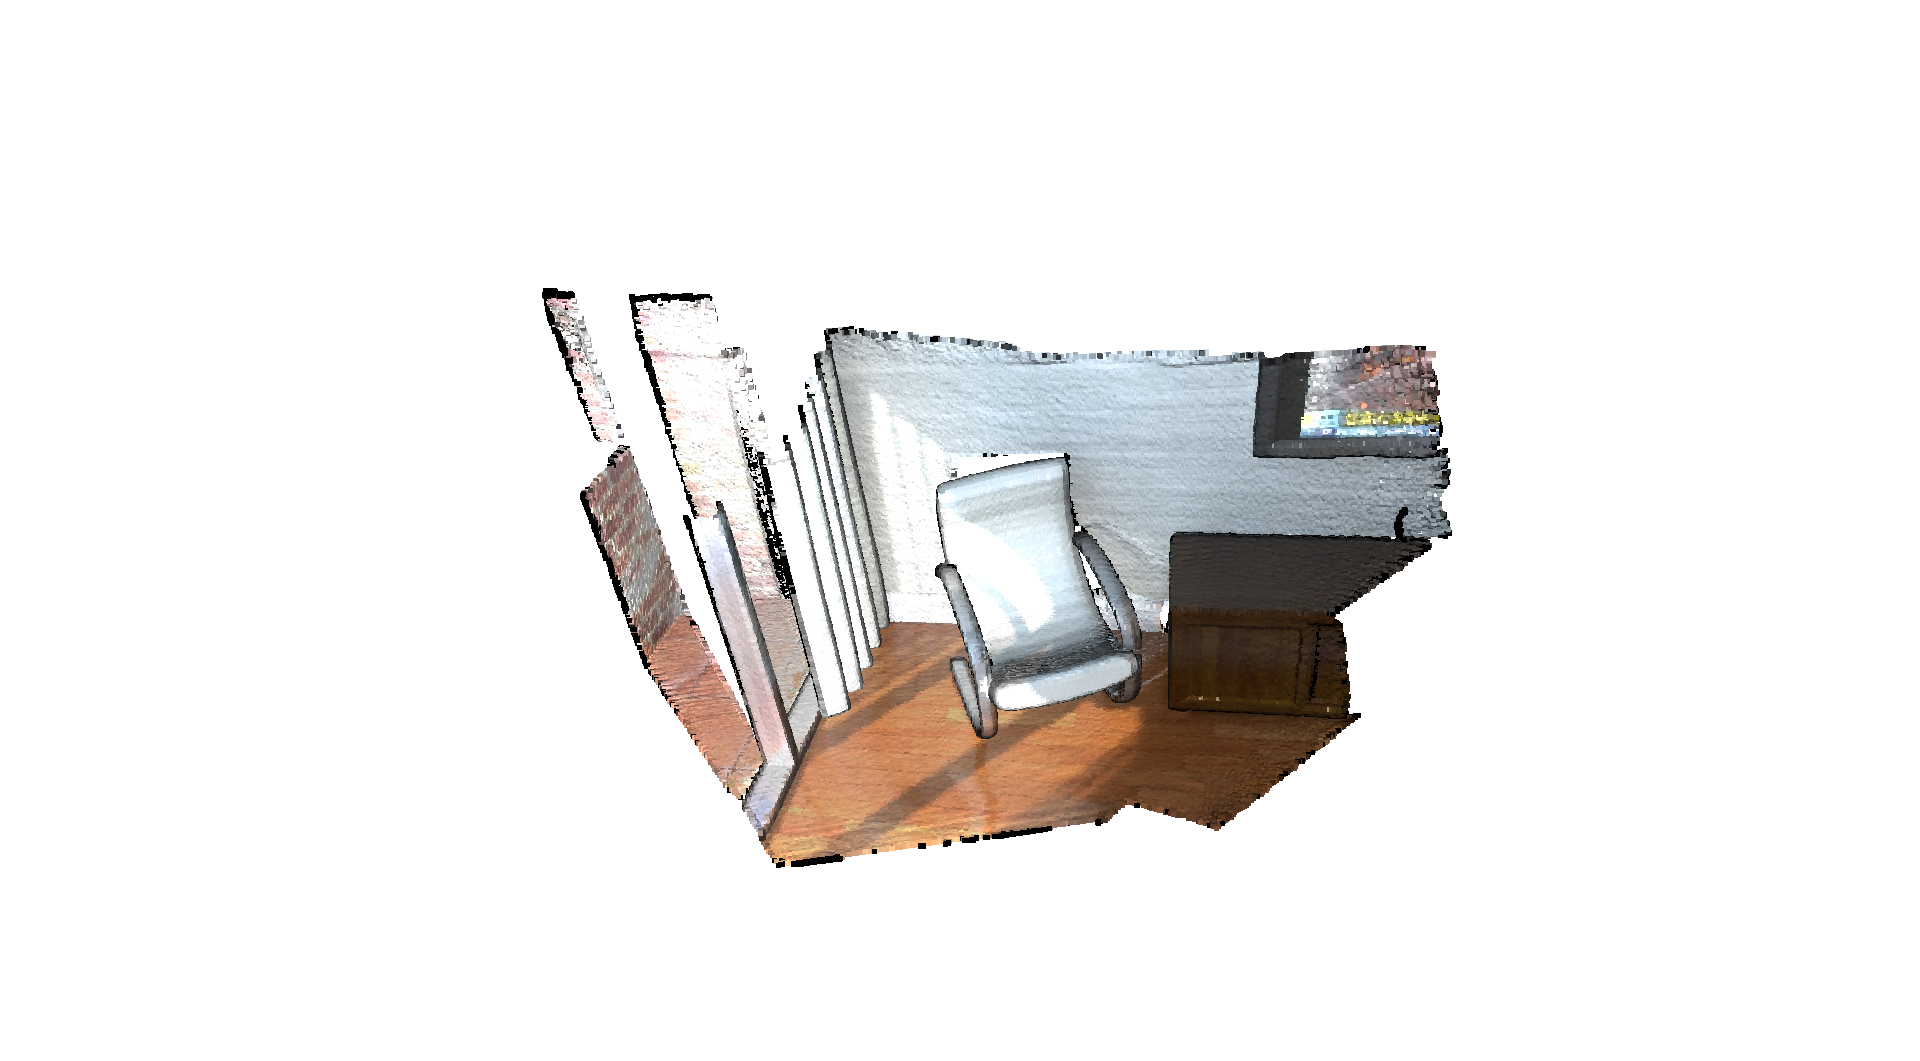
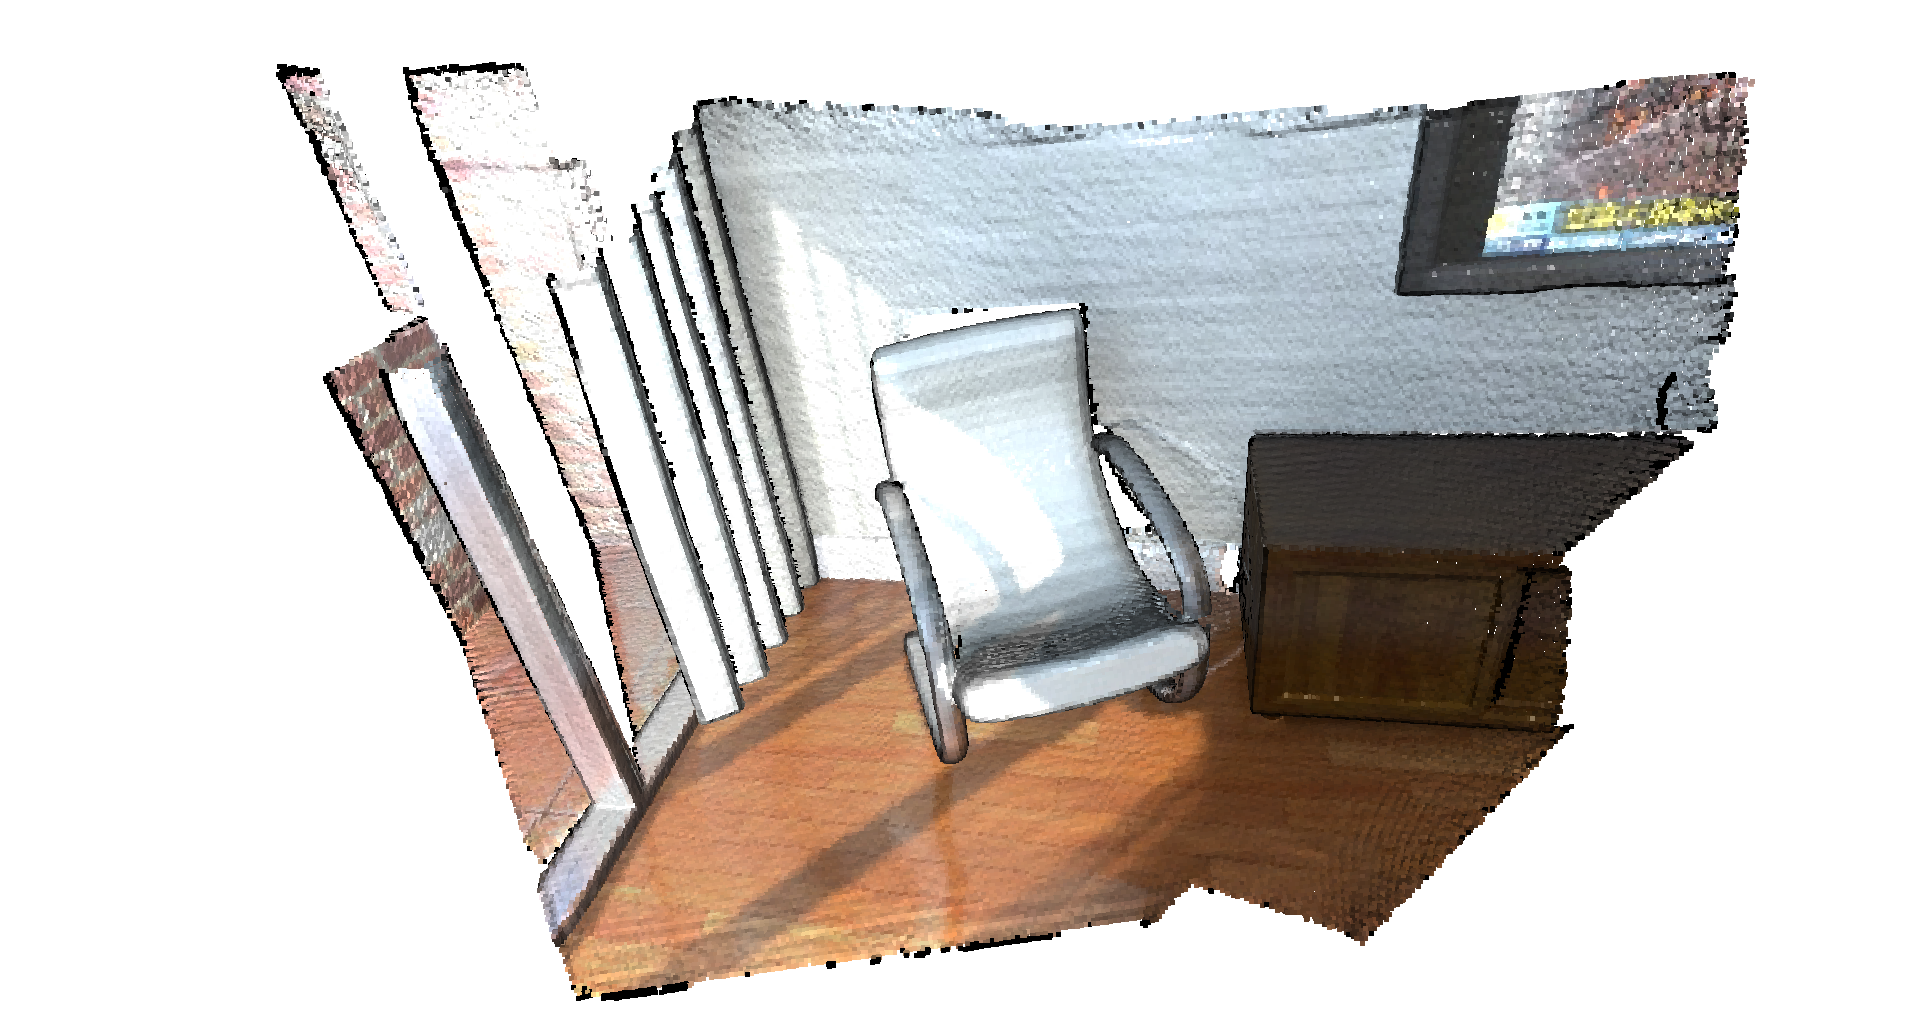
ChangeImgSize

diff --git a/Algorithms/RegionGrowing/testRG.py b/Algorithms/RegionGrowing/testRG.py
@@ -7,6 +7,11 @@ if __name__ == "__main__":
     gPath = os.path.abspath(os.path.join(os.getcwd(), "../..")) ## Get Project path, Windows_10
     plyPath = os.path.join(gPath, 'TestData','fragment.ply')
     pcd = o3d.io.read_point_cloud(plyPath)
+    # o3d.visualization.draw_geometries([pcd],
+    #                                   zoom=0.7,
+    #                                   front=[0.0, -0.5, -0.8499],
+    #                                   lookat=[2.1813, 2.0619, 2.0999],
+    #                                   up=[0.1204, -0.9852, 0.1215]) # Show original point clouds
     RGKNN = RG.RegionGrowing()
     RGKNN.SetDataThresholds(pcd,10.0) # the growing angle threshold is set to 10.0 degree
     RGKNN.RGKnn()  # Run region growing
